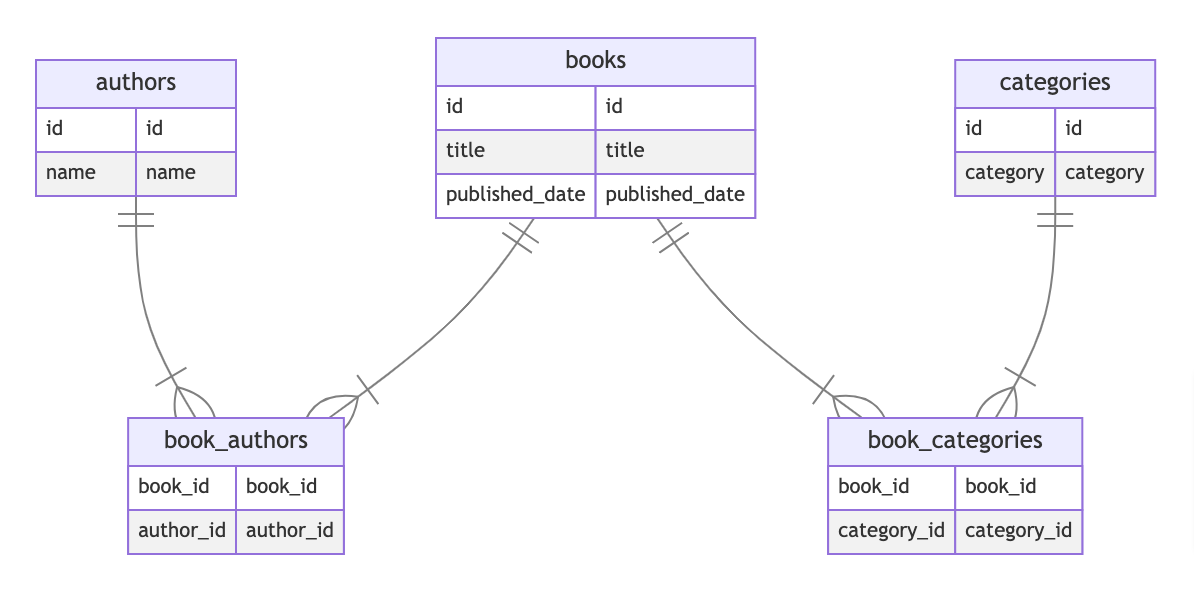
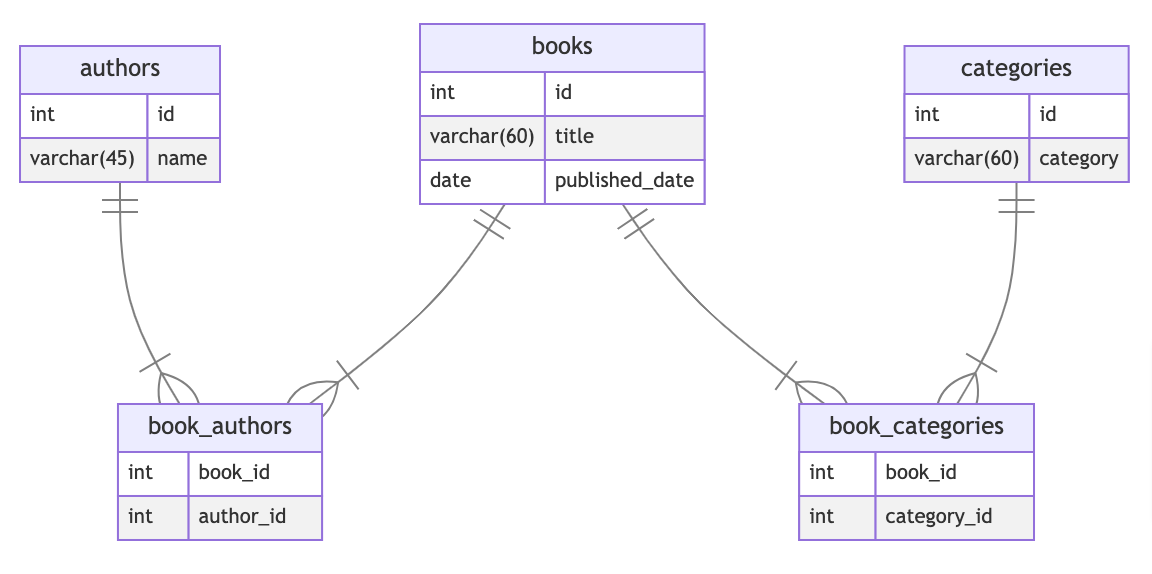
update

diff --git a/internal/db/db_test.go b/internal/db/db_test.go
@@ -1,0 +1,141 @@
+package db
+
+import (
+	"regexp"
+	"testing"
+
+	"github.com/DATA-DOG/go-sqlmock"
+	"github.com/jmoiron/sqlx"
+	"github.com/ritarock/gerd/internal/model"
+	"github.com/stretchr/testify/assert"
+)
+
+func NewMockDB() (*dbx, sqlmock.Sqlmock) {
+	db, mock, _ := sqlmock.New()
+	dbMock := sqlx.NewDb(db, "sqlmock")
+
+	return &dbx{db: dbMock}, mock
+}
+
+func Test_dbx_GetTables(t *testing.T) {
+	tests := []struct {
+		name     string
+		mockSql  func(mock sqlmock.Sqlmock)
+		expected []model.Table
+	}{
+		{
+			name: "pass",
+			mockSql: func(mock sqlmock.Sqlmock) {
+				mock.ExpectQuery("SHOW TABLES").
+					WillReturnRows(sqlmock.NewRows([]string{
+						"Tables_in_sample",
+					},
+					).AddRow("table1").AddRow("table2"))
+			},
+			expected: []model.Table{
+				"table1", "table2",
+			},
+		},
+	}
+
+	for _, test := range tests {
+		dbMock, mock := NewMockDB()
+		defer dbMock.db.Close()
+
+		test.mockSql(mock)
+		tables, err := dbMock.GetTables()
+		assert.NoError(t, err)
+		assert.Equal(t, test.expected, tables)
+
+	}
+}
+
+func Test_dbx_GetDescribe(t *testing.T) {
+	tests := []struct {
+		name     string
+		mockSql  func(mock sqlmock.Sqlmock)
+		expected model.Column
+	}{
+		{
+			name: "pass",
+			mockSql: func(mock sqlmock.Sqlmock) {
+				mock.ExpectQuery("SHOW COLUMNS FROM samples").
+					WillReturnRows(sqlmock.NewRows([]string{
+						"Field",
+						"Type",
+						"Null",
+						"Key",
+						"Default",
+						"Extra",
+					}).
+						AddRow("ID", "int(11)", "NO", "PRI", "NULL", "auto_increment").
+						AddRow("Name", "char(35)", "NO", "", "", ""),
+					)
+			},
+			expected: model.Column{
+				model.ColumnKey("ID"):   model.ColumnValue("int(11)"),
+				model.ColumnKey("Name"): model.ColumnValue("char(35)"),
+			},
+		},
+	}
+
+	for _, test := range tests {
+		dbMock, mock := NewMockDB()
+		defer dbMock.db.Close()
+
+		test.mockSql(mock)
+		column, err := dbMock.GetDescribe(model.Table("samples"))
+		assert.NoError(t, err)
+		assert.Equal(t, column, test.expected)
+	}
+}
+
+func Test_dbx_GetReferences(t *testing.T) {
+	tests := []struct {
+		name     string
+		mockSql  func(mock sqlmock.Sqlmock)
+		expected []model.MetaReference
+	}{
+		{
+			name: "pass",
+			mockSql: func(mock sqlmock.Sqlmock) {
+				mock.ExpectQuery(regexp.QuoteMeta(`
+					SELECT
+						kcu.TABLE_NAME, tc.CONSTRAINT_TYPE
+					FROM
+						information_schema.KEY_COLUMN_USAGE kcu
+					INNER JOIN
+						information_schema.TABLE_CONSTRAINTS tc
+					ON
+						kcu.CONSTRAINT_NAME = tc.CONSTRAINT_NAME
+					WHERE
+						CONSTRAINT_TYPE = 'FOREIGN KEY'
+					AND
+						REFERENCED_TABLE_NAME = 'samples'`,
+				)).
+					WillReturnRows(sqlmock.NewRows([]string{
+						"TABLE_NAME",
+						"CONSTRAINT_TYPE",
+					}).
+						AddRow("sample_categories", "FOREIGN KEY"),
+					)
+			},
+			expected: []model.MetaReference{
+				{
+					TableName:      "sample_categories",
+					ConstraintType: "FOREIGN KEY",
+				},
+			},
+		},
+	}
+
+	for _, test := range tests {
+		dbMock, mock := NewMockDB()
+		defer dbMock.db.Close()
+
+		test.mockSql(mock)
+		references, err := dbMock.GetReferences(model.Table("samples"))
+		assert.NoError(t, err)
+		assert.Equal(t, test.expected, references)
+	}
+}

diff --git a/internal/mermaid/mermaid_test.go b/internal/mermaid/mermaid_test.go
@@ -1,0 +1,106 @@
+package mermaid
+
+import (
+	"io"
+	"os"
+	"testing"
+
+	"github.com/ritarock/gerd/internal/model"
+	"github.com/stretchr/testify/assert"
+)
+
+func assertReadData(t *testing.T, file *os.File, expected string) {
+	t.Helper()
+	b, _ := io.ReadAll(file)
+	assert.Equal(t, expected, string(b))
+}
+
+func TestCreate(t *testing.T) {
+	tmpFile, err := os.CreateTemp("./", "testfile")
+	if err != nil {
+		t.Fatalf("failed TestWrite")
+	}
+	defer os.Remove(tmpFile.Name())
+	defer tmpFile.Close()
+
+	err = Create(tmpFile.Name())
+	assert.NoError(t, err)
+
+	assertReadData(t, tmpFile, "erDiagram\n")
+}
+
+func TestCreateTable(t *testing.T) {
+	type args struct {
+		tableName model.Table
+		column    model.Column
+	}
+
+	tests := []struct {
+		name     string
+		args     args
+		expected string
+	}{
+		{
+			name: "pass",
+			args: args{
+				tableName: "samples",
+				column: map[model.ColumnKey]model.ColumnValue{
+					model.ColumnKey("id"):   model.ColumnValue("int"),
+					model.ColumnKey("name"): model.ColumnValue("varchar(45)"),
+				},
+			},
+			expected: "\nsamples {\n\tint id\n\tvarchar(45) name\n}\n\n",
+		},
+	}
+
+	for _, test := range tests {
+		tmpFile, err := os.CreateTemp("./", "testfile")
+		if err != nil {
+			t.Fatalf("failed TestWrite")
+		}
+		defer os.Remove(tmpFile.Name())
+		defer tmpFile.Close()
+
+		err = CreateTable(test.args.tableName, test.args.column, tmpFile.Name())
+		assert.NoError(t, err)
+		assertReadData(t, tmpFile, test.expected)
+	}
+}
+
+func TestCreateReference(t *testing.T) {
+	type args struct {
+		tableName model.Table
+		reference model.MetaReference
+	}
+
+	tests := []struct {
+		name     string
+		args     args
+		expected string
+	}{
+		{
+			name: "pass",
+			args: args{
+				tableName: "samples",
+				reference: model.MetaReference{
+					TableName:      "sample_categories",
+					ConstraintType: "FOREIGN KEY",
+				},
+			},
+			expected: "samples ||--|{ sample_categories: \"\"\n",
+		},
+	}
+
+	for _, test := range tests {
+		tmpFile, err := os.CreateTemp("./", "testfile")
+		if err != nil {
+			t.Fatalf("failed TestWrite")
+		}
+		defer os.Remove(tmpFile.Name())
+		defer tmpFile.Close()
+
+		err = CreateReference(test.args.tableName, test.args.reference, tmpFile.Name())
+		assert.NoError(t, err)
+		assertReadData(t, tmpFile, test.expected)
+	}
+}

diff --git a/internal/mermaid/mermaid.go b/internal/mermaid/mermaid.go
@@ -3,15 +3,12 @@ package mermaid
 import (
 	"fmt"
 	"os"
-	"strings"
 
 	"github.com/ritarock/gerd/internal/model"
 )
 
-const FILE_NAME = "mermaid.md"
-
-func Create() error {
-	f, err := os.Create(FILE_NAME)
+func Create(fileName string) error {
+	f, err := os.Create(fileName)
 	if err != nil {
 		return err
 	}
@@ -25,26 +22,18 @@ func Create() error {
 	return nil
 }
 
-func Delete() error {
-	return os.Remove(FILE_NAME)
+func Delete(fileName string) error {
+	return os.Remove(fileName)
 }
 
-func CreateTable(tableName model.Table, column model.Column) error {
+func CreateTable(tableName model.Table, column model.Column, fileName string) error {
 	tmpl := "\n" + tableName.String() + " {\n"
 	for k, v := range column {
-		if strings.Contains(v.String(), "int") {
-			tmpl += fmt.Sprintf("\t%v %v\n", "int", k)
-		} else if strings.Contains(v.String(), "float") {
-			tmpl += fmt.Sprintf("\t%v %v\n", "float", k)
-		} else if strings.Contains(v.String(), "char") {
-			tmpl += fmt.Sprintf("\t%v %v\n", "string", k)
-		} else {
-			tmpl += fmt.Sprintf("\t%v %v\n", v, k)
-		}
+		tmpl += fmt.Sprintf("\t%v %v\n", v, k)
 	}
 	tmpl += "}\n\n"
 
-	f, err := os.OpenFile(FILE_NAME, os.O_WRONLY|os.O_APPEND, 0666)
+	f, err := os.OpenFile(fileName, os.O_WRONLY|os.O_APPEND, 0666)
 	if err != nil {
 		return err
 	}
@@ -58,10 +47,10 @@ func CreateTable(tableName model.Table, column model.Column) error {
 	return nil
 }
 
-func CreateReference(tableName model.Table, reference model.MetaReference) error {
+func CreateReference(tableName model.Table, reference model.MetaReference, fileName string) error {
 	tmpl := tableName.String() + " ||--|{ " + reference.TableName + ": \"\"" + "\n"
 
-	f, err := os.OpenFile(FILE_NAME, os.O_WRONLY|os.O_APPEND, 0666)
+	f, err := os.OpenFile(fileName, os.O_WRONLY|os.O_APPEND, 0666)
 	if err != nil {
 		return err
 	}

diff --git a/internal/action/action.go b/internal/action/action.go
@@ -5,6 +5,8 @@ import (
 	"github.com/ritarock/gerd/internal/mermaid"
 )
 
+const FILE_NAME = "mermaid.md"
+
 func Run(db, address, user, password string) error {
 	dbx := database.NewDbx()
 	if err := dbx.Connect(db, address, user, password); err != nil {
@@ -16,13 +18,13 @@ func Run(db, address, user, password string) error {
 		return err
 	}
 
-	mermaid.Create()
+	mermaid.Create(FILE_NAME)
 	for _, table := range tables {
 		column, err := dbx.GetDescribe(table)
 		if err != nil {
 			return err
 		}
-		if err := mermaid.CreateTable(table, column); err != nil {
+		if err := mermaid.CreateTable(table, column, FILE_NAME); err != nil {
 			return err
 		}
 	}
@@ -36,7 +38,7 @@ func Run(db, address, user, password string) error {
 			continue
 		}
 		for _, reference := range references {
-			if err := mermaid.CreateReference(table, reference); err != nil {
+			if err := mermaid.CreateReference(table, reference, FILE_NAME); err != nil {
 				return err
 			}
 		}

diff --git a/internal/db/db.go b/internal/db/db.go
@@ -53,7 +53,7 @@ func (d *dbx) GetDescribe(tableName model.Table) (model.Column, error) {
 	column := make(model.Column)
 	for _, v := range metaColumns {
 		key := model.ColumnKey(v.Field.String)
-		value := model.ColumnValue(v.Field.String)
+		value := model.ColumnValue(v.Type.String)
 		column[key] = value
 	}
 	return column, nil

diff --git a/mermaid.md b/mermaid.md
@@ -1,33 +1,33 @@
 erDiagram
 
 authors {
-	id id
-	name name
+	int id
+	varchar(45) name
 }
 
 
 book_authors {
-	book_id book_id
-	author_id author_id
+	int book_id
+	int author_id
 }
 
 
 book_categories {
-	book_id book_id
-	category_id category_id
+	int book_id
+	int category_id
 }
 
 
 books {
-	id id
-	title title
-	published_date published_date
+	int id
+	varchar(60) title
+	date published_date
 }
 
 
 categories {
-	id id
-	category category
+	int id
+	varchar(60) category
 }
 
 authors ||--|{ book_authors: ""
